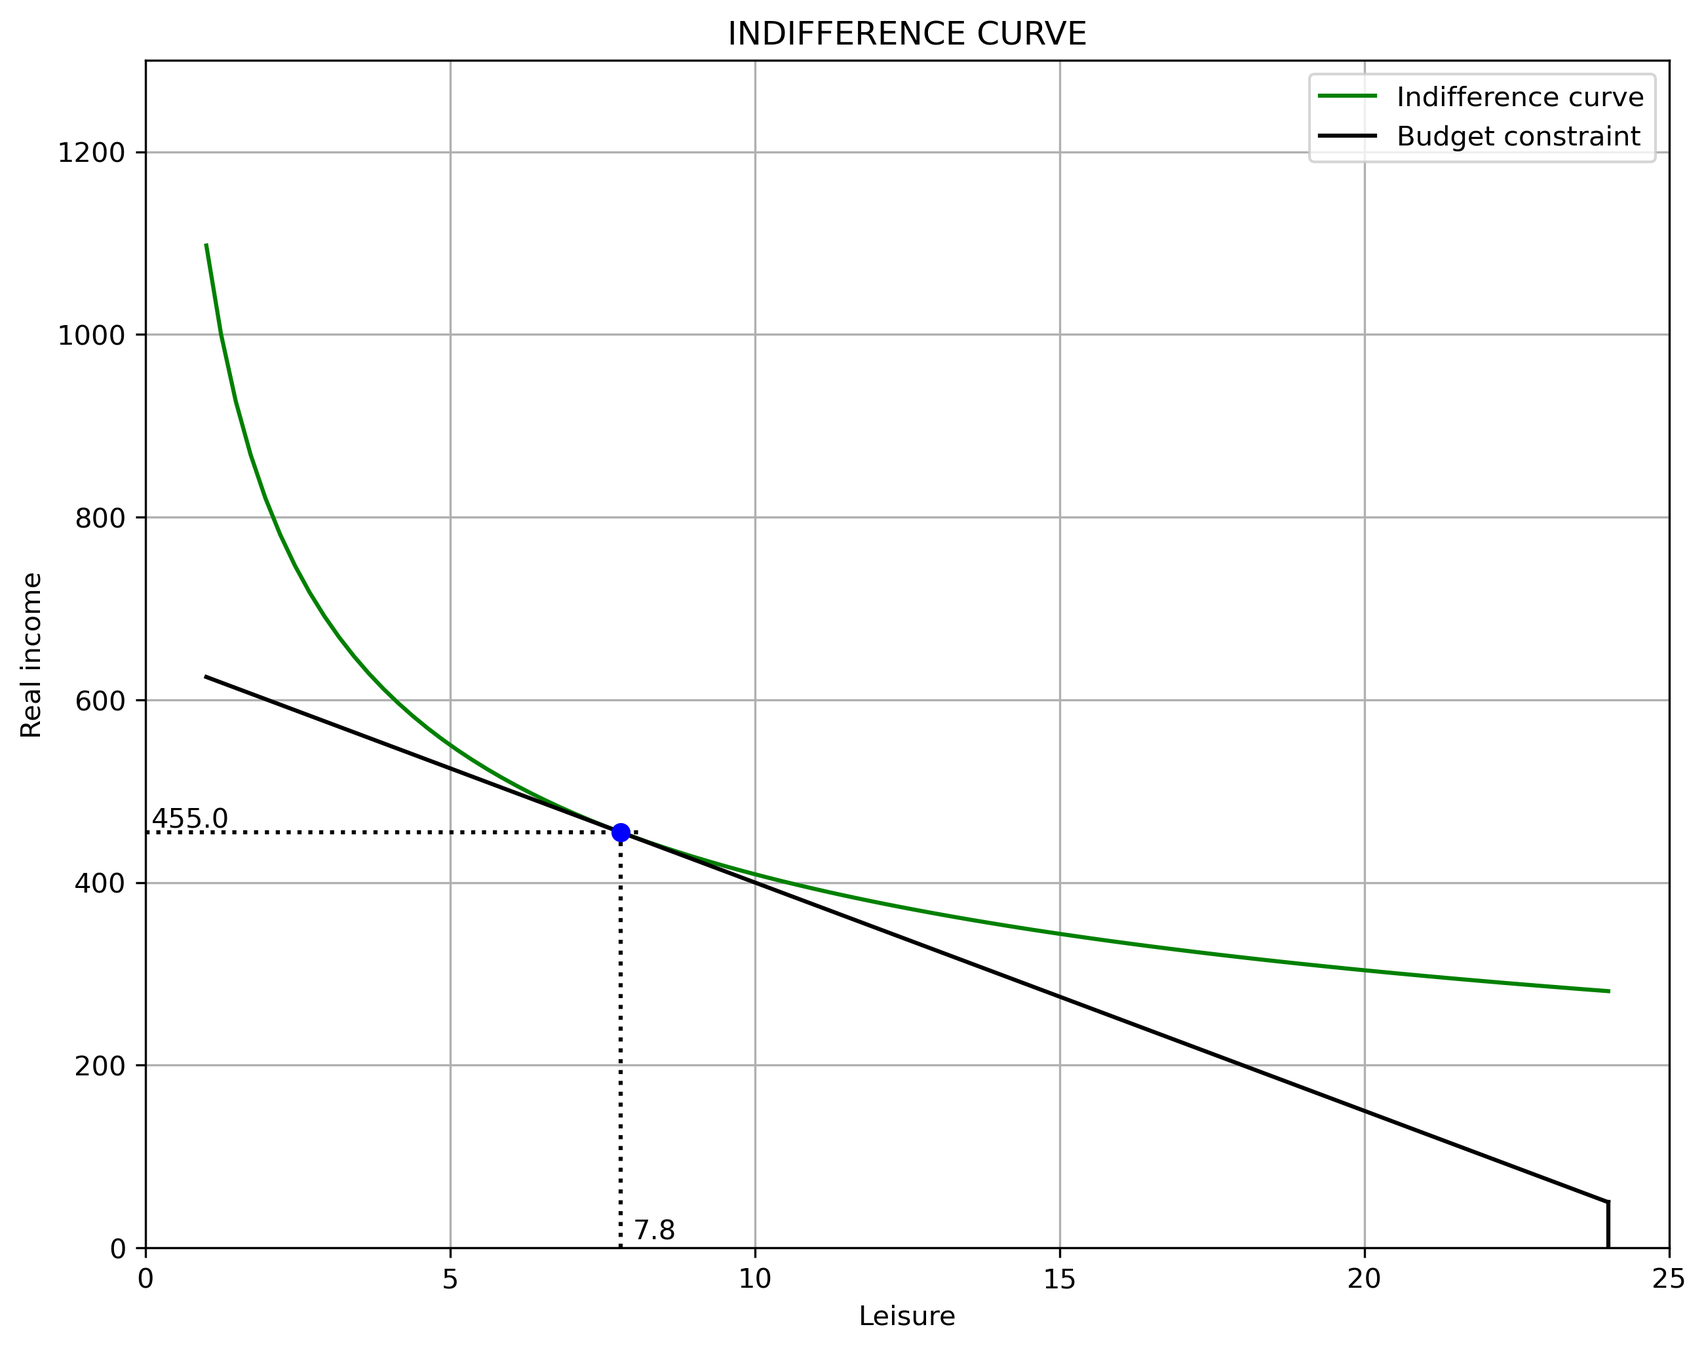
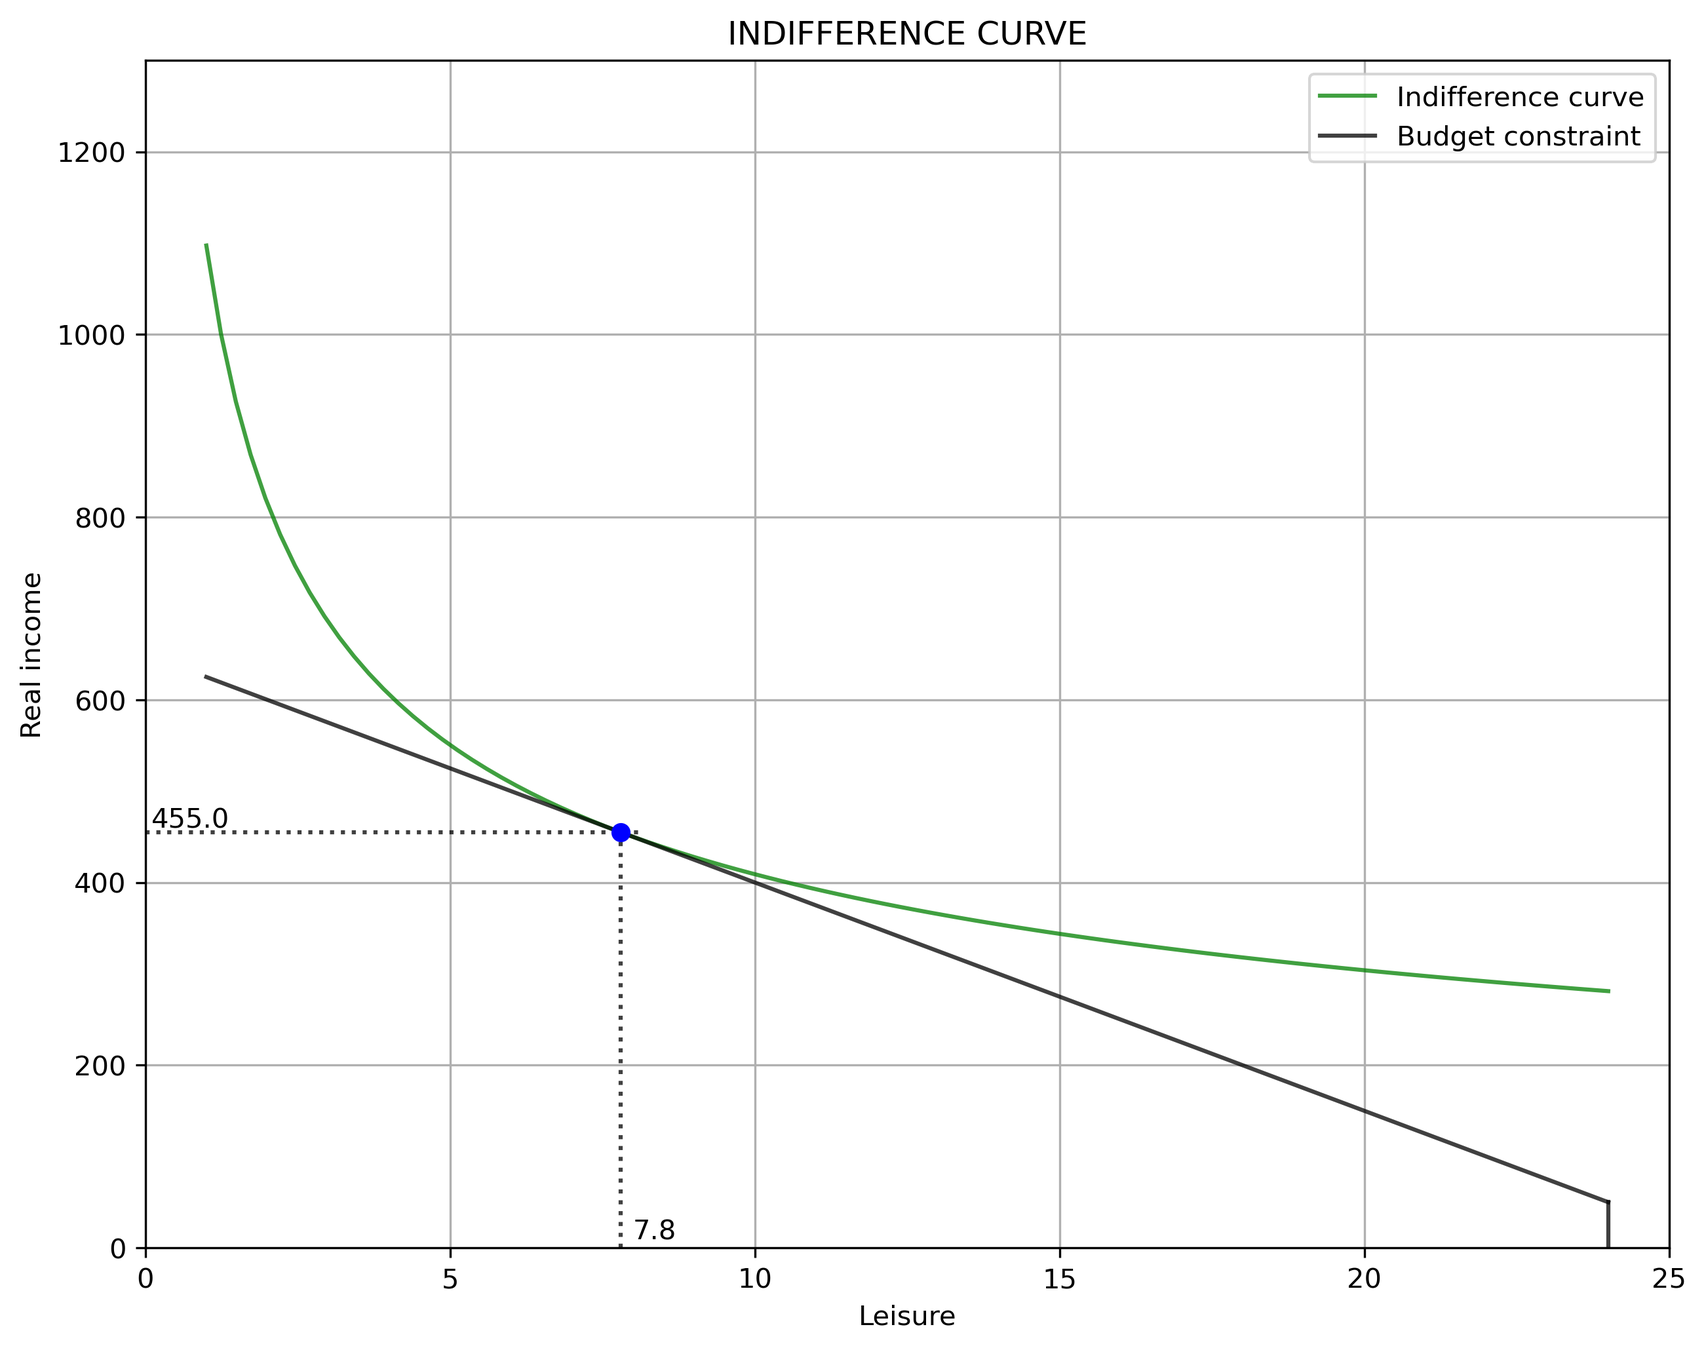
Labor

diff --git a/content/python/01_The-labor-market/_index.md b/content/python/01_The-labor-market/_index.md
@@ -21,46 +21,56 @@ Under revision
 
 ## Labor demand
 
-Labor demand $\left(N^D\right)$ comes from a representative firm maximizing its profits $(\pi)$. Assume output $(Q)$ follows a Cobb-Douglas production function with Hicks-Neutral technology $(A)$, and that $P$ is the market price of the firm's output. Further, assume that $w$ and $r$ are the prices of labor $(N)$ and capital $(K)$ respectively. Then, firm's profit is (where $\alpha \in (0, 1)$):
+Labor demand $\left(N^D\right)$ originates in a representative firm maximizing its profits $(\pi)$. Assume output $(Q)$ follows a Cobb-Douglas production function with Hicks-Neutral technology $(A)$, and that $P$ is the market price of the firm's output. Further, assume that $w$ and $r$ are the prices of labor $(N)$ and capital $(K)$ respectively. Then, firm's profit is (where $\alpha \in (0, 1)$):
 
 $$
 \begin{align}
     \pi &= P \cdot Q(K, N) - wN - rK  \\\\[10pt]
-    \pi &= P \cdot \left(A \cdot K^{\alpha} N^{1-\alpha} \right) - wN - rK
+    \pi &= P \cdot \left(A K^{\alpha} N^{1-\alpha} \right) - wN - rK
 \end{align}
 $$
 
-With capital and technology as given in the short-run, the firm maximizes its profits by changin the amount of labor. The firm demands labor (that has decreasing marginal returns) up the points of its marginal productivity. It can be seen that labor demand has an hyperbolic shape with respect to real wages $(w/P)$.
+With capital and technology fixed in the short-run, the firm maximizes its profits by changing the amount of labor. The firm demands labor (that has decreasing marginal returns) up the points of its marginal productivity. It can be seen that labor demand has an hyperbolic shape with respect to real wages $(w/P)$.
 
 $$
 \begin{align}
-    \frac{\partial \pi}{\partial N} &= P \cdot (1-\alpha) \, A \left(\frac{K}{N}\right)^{\alpha} - w= 0 \\\\[10pt]
+    \frac{\partial \pi}{\partial N} &= P \cdot (1-\alpha) A \left(\frac{K}{N}\right)^{\alpha} - w= 0 \\\\[10pt]
     N^D &= K \cdot \left[\frac{(1-\alpha)A}{(w/P)}\right]^{1/\alpha}
 \end{align}
 $$
 
-The following code plots labor demand and shifts produced by changes in $k$ (in blue), $A$ (in red), and in $\alpha$ (in green). The first part of the code imports the required packages. The second part defines the parameters and vectors to be used. The third part of the code builds the labor demand function. The fourth section calculates labor demand and the effects of shocks (1) capital $(\Delta K = 20)$, (2) productivity $(\Delta A = 20)$, and (3) output elasticity of capital $(\Delta \alpha = 20)$. The fifth part of the code plots labor demand and the shock effects.
+The following code plots labor demand and shifts produced by changes in $K$ (in <span style="color:blue">blue</span>), $A$ (in <span style="color:red">red</span>), and in $\alpha$ (in <span style="color:green">green</span>). The first part of the code imports the required packages. The second part defines the parameters and vectors to be used. The third part of the code builds the labor demand function. The fourth section calculates labor demand and the effects of shocks (1) to capital $(\Delta K = 20)$, (2) to productivity $(\Delta A = 20)$, and (3) to output elasticity of capital $(\Delta \alpha = 20)$. The fifth part of the code plots labor demand and the shock effects.
 
 ```python
+#%% | *** FIRST CELL ***
+"============================================================================"
 "1|IMPORT PACKAGES"
 import numpy             as np       # Package for scientific computing
 import matplotlib.pyplot as plt      # Matplotlib is a 2D plotting library
 from   scipy.optimize    import root # Package to find the roots of a function
 
+
+"============================================================================"
 "2|DEFINE PARAMETERS AND ARRAYS"
-# Parameters
+# Code parameters
+dpi=300
 size  = 50    # Real wage domain
+# Model parameters
 K     = 20    # Capital stock
 A     = 20    # Technology
 alpha =  0.7  # Output elasticity of capital
 # Arrays
 rW = np.linspace(1, size, size*2)  # Real wage
 
+
+"============================================================================"
 "3|LABOR DEMAND FUNCTION"
 def Ndemand(A, K, rW, alpha):
-    Nd = K * ((1-alpha)*A/rW)**(1/alpha)
+    Nd = K * ((1 - alpha)*A/rW)**(1/alpha)
     return Nd
 
+
+"============================================================================"
 "4|CALCULATE LABOR DEMAND AND SHOCK EFFECTS"
 D_K = 20    # Shock to K
 D_A = 20    # Shock to A
@@ -70,27 +80,28 @@ Nd   = Ndemand(A    , K    , rW, alpha)
 Nd_K = Ndemand(A    , K+D_K, rW, alpha)      
 Nd_A = Ndemand(A+D_A, K    , rW, alpha)      
 Nd_a = Ndemand(A    , K    , rW, alpha+D_a)  
-   
-"5|PLOT LABOR DEMAND AND SHOCK EFFECTS"
-xmax_v    = np.zeros(4)
-xmax_v[0] = np.max(Nd)
-xmax_v[1] = np.max(Nd_K)
-xmax_v[2] = np.max(Nd_A)
-xmax_v[3] = np.max(Nd_a)
-xmax      = np.max(xmax_v)
 
-v = [0, 30, 0, size]                            # Set the axes range
-fig, ax = plt.subplots(figsize=(10, 8), dpi=300)
+
+"============================================================================"
+"5|PLOT LABOR DEMAND AND SHOCK EFFECTS"
+# AXIS RANGE
+axis_range = [0, 30, 0, size]
+
+# BUILD PLOT
+fig, ax = plt.subplots(figsize=(10, 8), dpi=dpi)
 ax.set(title="LABOR DEMAND", xlabel=r'Nd', ylabel=r'w/P')
-ax.grid()
-ax.plot(Nd  , rW, "k-", label="Labor demand", linewidth=3)
-ax.plot(Nd_K, rW, "b-", label="Capital shock")
-ax.plot(Nd_A, rW, "r-", label="Productivity shock")
-ax.plot(Nd_a, rW, "g-", label="Output elasticity of K shock")
+# ADD DEMAND CURVES
+ax.plot(Nd  , rW, "k-", alpha=0.75, label="Labor demand", linewidth=3)
+ax.plot(Nd_K, rW, "b-", alpha=0.75, label="Capital shock")
+ax.plot(Nd_A, rW, "r-", alpha=0.75, label="Productivity shock")
+ax.plot(Nd_a, rW, "g-", alpha=0.75, label="Output elasticity of K shock")
+# AXIS
 ax.yaxis.set_major_locator(plt.NullLocator())   # Hide ticks
 ax.xaxis.set_major_locator(plt.NullLocator())   # Hide ticks
+#SETTINGS
+ax.grid()
 ax.legend() 
-plt.axis(v)                                     # Use 'v' as the axes range
+plt.axis(axis_range)
 plt.show()
 ```
 
@@ -100,7 +111,7 @@ plt.show()
 
 ## Labor supply
 
-Labor supply is derived from the consumer maximizing a constrained utility function. The consumer receives utility from consumption $(C)$ and leisure time $(L)$. While the profit function of the firm has an internal maximum, the utility function is strictly increasing on $C$ and $L$. Therefore, the utility maximization problem includes (1) a binding constrain and (2) the right mix of $C$ and $L$ that will depend on their relative prices.
+Labor supply is derived from the consumer maximizing a constrained utility function. The consumer receives utility from consumption $(C)$ and leisure time $(L)$. While the profit function of the firm has an internal maximum, the utility function is strictly increasing on $C$ and $L$. Put it differently, there is a point after which increasing output does not increase profits. But, utility always increases (even if by a very small amount) with more consumption. Therefore, the utility maximization problem includes (1) a binding constrain and (2) the right mix of $C$ and $L$ that will depend on their relative prices.
 
 Assume a Cobb-Douglas utility function where $\beta$ is the consumption elasticity of utility.
 
@@ -114,18 +125,18 @@ The consumer faces the following budget constraint:
 
 $$
 \begin{align}
-    C &= \left(\frac{w}{P} \right) (24 - L) + I  \\\\[10pt]
-    C &= \underbrace{\left[I + 24 \left(\frac{w}{P} \right) \right]}\_{\text{intercept}} - \underbrace{\left( \frac{w}{P} \right)}\_{\text{slope}}L
+    C &= \left(\frac{w}{P} \right) (T - L) + I  \\\\[10pt]
+    C &= \underbrace{\left[I + T \left(\frac{w}{P} \right) \right]}\_{\text{intercept}} - \underbrace{\left( \frac{w}{P} \right)}\_{\text{slope}}L
 \end{align}
 $$
 
-where $24$ is the amount of hours the individual can work in given day and $I$ is other (non-labor) income. 
+where $T$ is the amount of hours the individual can work in given day and $I$ is other (non-labor) income.
 
 Before deriving labor supply $N^S$ we can plot the indifference curve between consumption and leisure with the budget constraint. "Solving" for $C$ for a given level of utility:
 
 $$
 \begin{equation}
-    C = \left( \frac{\bar{U}}{L^{1-\beta}} \right)^{(1/\beta)}
+    C = \left(\frac{\bar{U}}{L^{1 - \beta}} \right)^{(1/\beta)}
 \end{equation}
 $$
 
@@ -133,7 +144,7 @@ We can now maximize the utility with the budget constraint using a Lagrangian $\
 
 $$
 \begin{equation}
-    \max_{\{C, L\}} \Im = C^{\beta} L^{1-\beta} + \lambda \left[C - I - \frac{w}{P} (24-L) \right]
+    \max_{\{C, L\}} \Im = C^{\beta} L^{1 - \beta} + \lambda \left[C - I - \frac{w}{P} (T - L) \right]
 \end{equation}
 $$
 
@@ -143,23 +154,21 @@ $$
 \begin{cases}
     \Im_{L} = (1 - \beta) \left( \frac{C}{L} \right)^{\beta} - \lambda = 0  \\\\[10pt]
     \Im_{C} = \beta \left( \frac{L}{C} \right)^{1-\beta} - \lambda \left(\frac{w}{P} \right) = 0  \\\\[10pt]
-    \Im_{\lambda} = C - I - \left(\frac{w}{P}\right) (24-L) = 0
+    \Im_{\lambda} = C - I - \left(\frac{w}{P}\right) (T - L) = 0
 \end{cases}
 $$
 
 From the first two FOCs we get the known relationship $\frac{U_{L}}{U_{C}} = \frac{w/P}{1}$
 
 Solving for $C$ in terms of $L$ yields $C = \frac{\beta}{1-\beta} \left(\frac{w}{P}\right)L$.
-Plugin this result in the third FOC and solving for $L$ yields $L^\* = (1-\beta) \left[\frac{I + 24 (w/P)}{(w/P)} \right]$. With $L^*$ we can now get $C^\* = \beta \left[I + 24 (w/P) \right]$. Next we plug-in $C^\*$ and $L^\*$ into the utility function.
+Plugin this result in the third FOC and solving for $L$ yields $L^\* = (1-\beta) \left[\frac{I + T (w/P)}{(w/P)} \right]$. With $L^*$ we can now get $C^\* = \beta \left[I + T (w/P) \right]$. Next we plug-in $C^\*$ and $L^\*$ into the utility function.
 
 $$
 \begin{align}
     U(C^\*, L^\*)^* &= \left(C^\* \right)^{\beta} \left(L^\* \right)^{1-\beta}  \\\\[10pt]
-    U(C^\*, L^\*)^* &= \left[\beta(I + 24 (w/P)\right]^{\beta} \left[(1-\beta) \frac{I+24(w/P)}{(w/P)} \right]^{1-\beta}
+    U(C^\*, L^\*)^* &= \left[\beta(I + T (w/P)\right]^{\beta} \left[(1 - \beta) \frac{I + T(w/P)}{(w/P)} \right]^{1-\beta}
 \end{align}
 $$
-
-Note that if $I=0$ then $L^\*$ and $C^\*$ are fixed quantities that depend on the value of $\beta$.
 
 Using the lagrangian method also allows to find the "optimal" value of $\lambda$ or the "shadow price":
 
@@ -171,11 +180,13 @@ $$
 \end{align}
 $$
 
-Now we can use this information to plot the indifference curve with `matplotlib`. Note that the code calculates $U^\*$, $L^\*$, and $C^\*$ and uses these values in the graph. The first part of the code imports the required packages. The second part of the code defines needed parameters and vectors. The third part of the code calculates $U^\*$, $L^\*$, $C^\*$, and builds the functions for the indifference curve and the budget constraint. The fourth part of the code builds the plot.
+Now we can use this information to plot the indifference curve with `matplotlib`. Note that at $T=24$ (zero hours of labor), income equals $I$ (non-labor income). This shows as a vertical line that connects with the budget constraint, which starts to grow as hours of labor are added.(moving to the left).
 
 ```python
+#%% *** SECOND CELL ***
+"============================================================================"
 "6|DEFINE PARAMETERS AND ARRAYS"
-# Parameters
+# Model parameters
 T    = 24    # Available hours to work
 beta =  0.7  # Utility elasticity of consumption
 I    = 50    # Non-labor income
@@ -183,39 +194,52 @@ rW2  = 25    # Real wage
 # Arrays
 L = np.linspace(1, T, T*4)  # Array of labor hours from 0 to T
 
+
+"============================================================================"
 "7|CALCULATE OPTIMAL VALUES AND DEFINE FUNCTIONS"
 Ustar = (beta*(I + T*rW2))**beta * ((1 - beta)*(I + T*rW2)/rW2)**(1 - beta)
 Lstar = (1 - beta)*((I + T*rW2)/rW2)
 Cstar = beta*(I + T*rW2)
 
-def C_indiff(U, L, beta):        # Create consumption function
+# Consumption function
+def C_indiff(U, L, beta):
     C_indiff = (U/L**(1 - beta))**(1/beta)
     return C_indiff
 
-def Budget(I, rW2, L):            # Create budget constraint
+# Budget constraint
+def Budget(I, rW2, L):
     Budget = (I + T*rW2) - rW2*L
     return Budget
 
-B = Budget(I, rW2, L)             # Budget constraint
-C = C_indiff(Ustar, L, beta)     # Indifference curve
+# Populate the indifference curve and the budget constraint
+B = Budget(I, rW2, L)
+C = C_indiff(Ustar, L, beta)
 
+
+"============================================================================"
 "8|PLOT THE INDIFFERENCE CURVE AND THE BUDDGET CONSTRAINT"
 y_max = 2*Budget(I, rW2, 0)
 
-v = [0, T+1, 0, y_max]                               # Set the axes range
-fig, ax = plt.subplots(figsize=(10, 8), dpi=300)
+# AXIS RANGE
+axis_range = [0, T+1, 0, y_max]
+
+# BUILD PLOT
+fig, ax = plt.subplots(figsize=(10, 8), dpi=dpi)
 ax.set(title="INDIFFERENCE CURVE", xlabel="Leisure", ylabel="Real income")
-ax.grid()
-ax.plot(L, C, "g-", label="Indifference curve")
-ax.plot(L, B, "k-", label="Budget constraint")
-plt.axvline(x=T    , ymin=0, ymax=I/y_max, color='k') # Add non-labor income
-plt.axvline(x=Lstar, ymin=0, ymax = Cstar/y_max, ls=':', color='k') # Lstar
-plt.axhline(y=Cstar, xmin=0, xmax = Lstar/T    , ls=':', color='k') # Cstar
-plt.plot(Lstar, Cstar, 'bo')                                        # Point
+# ADD LINES TO THE PLOT
+ax.plot(L, C, "g-", alpha=0.75, label="Indifference curve")
+ax.plot(L, B, "k-", alpha=0.75, label="Budget constraint")
+plt.axvline(x=T    , ymin=0, alpha=0.75, ymax=I/y_max, color='k') # Add I
+plt.axvline(x=Lstar, ymin=0, alpha=0.75, ymax = Cstar/y_max, ls=':', color='k') 
+plt.axhline(y=Cstar, xmin=0, alpha=0.75, xmax = Lstar/T    , ls=':', color='k') 
+plt.plot(Lstar, Cstar, 'bo')
+# LABELS
 plt.text(0.1      ,  Cstar+5, np.round(Cstar, 1), color="k")
 plt.text(Lstar+0.2,  10     , np.round(Lstar, 1), color="k")
+# SETTINGS
+ax.grid()
 ax.legend() 
-plt.axis(v)                                         # Use 'v' as the axes range
+plt.axis(axis_range)
 plt.show()
 ```
 
@@ -225,14 +249,18 @@ Labor supply $N^S$ is the number of hours **not spent** in leisure. Note that $N
 
 $$
 \begin{align}
-    N^S &= 24 - L^*  \\\\[10pt]
-    N^S &= 24 - (1-\beta) \left[\frac{I + 24 (w/P)}{(w/P)} \right]
+    N^S &= T - L^*  \\\\[10pt]
+    N^S &= T - (1-\beta) \left[\frac{I + T (w/P)}{(w/P)} \right]
 \end{align}
 $$
 
-The following code shows labor supply (in black) and shocks to non-labor income $\Delta I = 25$ (in blue) and to consumption elasticity of utility $\Delta \beta = 0.10$ (in red). Note that in this construction $N^S$ does not bend-backwards.
+> If $I=0$, then labor supply simplifies to: $N^S = \beta T$.
+
+The following code shows labor supply (in black) and shocks to non-labor income $\Delta I = 25$ (in <span style="color:blue">blue</span>) and to consumption elasticity of utility $\Delta \beta = 0.10$ (in <span style="color:red">red</span>). Note that in this construction $N^S$ does not bend-backwards as is typically shows in economic textbooks.
 
 ```python
+#%% *** THIRD CELL ***
+"============================================================================"
 "9|LABOR SUPPLY"
 def Nsupply(rW, beta, I):
     Lsupply = T - (1-beta)*((T*rW + I)/rW)
@@ -244,21 +272,27 @@ D_b = 0.10   # Shock to beta
 Ns   = Nsupply(rW, beta    , I)
 Ns_b = Nsupply(rW, beta+D_b, I)
 Ns_I = Nsupply(rW, beta    , I+D_I)
-    
-"10|PLOT LABOR SUPPLY"
-y_max = np.max(Ns)
-v = [0, T, 0, y_max]                               # Set the axes range
 
-fig, ax = plt.subplots(figsize=(10, 8), dpi=300)
+
+"============================================================================"    
+"10|PLOT LABOR SUPPLY"
+# AXIS RANGE
+y_max = np.max(Ns)
+axis_range = [0, T, 0, y_max]
+
+# BUILD PLOT
+fig, ax = plt.subplots(figsize=(10, 8), dpi=dpi)
 ax.set(title="LABOR SUPPLY", xlabel="Work Hs.", ylabel=r'(w/P)')
-ax.grid()
-ax.plot(Ns  , rW, "k", label="Labor supply", linewidth=3)
-ax.plot(Ns_I, rW, "b", label="Non-labor income shock")
-ax.plot(Ns_b, rW, "r", label="Consumption elasticy of utility shock")
+# ADD LABOR SUPPLY LINES
+ax.plot(Ns  , rW, "k", alpha=0.75, label="Labor supply", linewidth=3)
+ax.plot(Ns_I, rW, "b", alpha=0.75, label="Non-labor income shock")
+ax.plot(Ns_b, rW, "r", alpha=0.75, label="Consumption elasticy of utility shock")
 ax.yaxis.set_major_locator(plt.NullLocator())      # Hide ticks
 ax.xaxis.set_major_locator(plt.NullLocator())      # Hide ticks
+# SETTINGS
+ax.grid()
 ax.legend() 
-plt.axis(v)                                        # Use 'v' as the axes range
+plt.axis(axis_range)
 plt.show()
 ```
 
@@ -268,45 +302,52 @@ plt.show()
 
 ## Equilibrium
 
-We can now calculate the equilibrium condition, the value of $(w/P)_0$ which makes $N^D\left(\left(\frac{w}{P}\right)_0\right) = N^S\left(\left(\frac{w}{P}\right)_0\right)$. Then, we can define a function $\Theta$ equal to zero at $\left(\frac{w}{P}\right)_0$:
+We can now calculate the equilibrium condition: the value of $(w/P)_0$ which makes $N^D\left(\left(\frac{w}{P}\right)_0\right) = N^S\left(\left(\frac{w}{P}\right)_0\right)$. We can define a new function $\Theta$ equal to zero at $\left(\frac{w}{P}\right)_0$:
 
 $$
 \begin{align}
-    \Theta \left[ \left(\frac{w}{P}\right)_0 \right] &= 0 = N^D \left[\left(\frac{w}{P} \right)_0 \right] - N^S \left[\left(\frac{w}{P}\right)_0 \right] \\\\[10pt]
-    \Theta \left[ \left(\frac{w}{P}\right)_0 \right] &= 0 = \left[ K \cdot \left[\frac{(1-\alpha)A}{(w/P)}\right]^{1/\alpha} \right] - \left[ 24  (1-\beta) \left[\frac{I + 24 (w/P)}{(w/P)} \right] \right]
+    \Theta \left[\left(\frac{w}{P}\right)_0 \right] &= 0 = N^D \left[\left(\frac{w}{P} \right)_0 \right] - N^S \left[\left(\frac{w}{P}\right)_0 \right] \\\\[10pt]
+    \Theta \left[\left(\frac{w}{P}\right)_0 \right] &= 0 = \left[K \cdot \left[\frac{(1-\alpha)A}{(w/P)}\right]^{1/\alpha} \right] - \left[T(1-\beta) \left[\frac{I + T(w/P)}{(w/P)} \right] \right]
 \end{align}
 $$
 
-We can ask Python to calculate the value (root) of $\left( \frac{w}{P} \right)$ that makes $\Theta = 0$. For this we need the "root" function from the `SciPy` library. The cade has four sections. Section 1 imports the required packages. Section 2 defines the parameters and arrays. Section 3 find the equilibrium values. And section 4 plots the results.
+`Python` to calculate the value (root) of $\left( \frac{w}{P} \right)$ that makes $\Theta = 0$. For this we need the "root" function from the `SciPy` library.
 
 ```python
+#%% *** CELL 4 ***
+"============================================================================"
+"11|OPTIMIZATION PROBLEM: FIND EQUILIBRIUM VALUES"
 def Eq_Wage(rW):
     Eq_Wage = Ndemand(A, K, rW, alpha) - Nsupply(rW, beta, I)
     return Eq_Wage
 
-rW_0 = 10                            # Initial value (guess)
-rW_star = root(Eq_Wage, rW_0)        # Equilibrium: Wage
-N_star = Nsupply(rW_star.x, beta, I) # Equilibrium: Labor
+rW_0 = 10                             # Initial value (guess)
+rW_star = root(Eq_Wage, rW_0)         # Equilibrium: Wage
+N_star  = Nsupply(rW_star.x, beta, I) # Equilibrium: Labor
 
+
+"============================================================================"
 "12|PLOT LABOR MARKET EQUILIBRIUM"
-Nd = Ndemand(A, K, rW, alpha)
-Ns = Nsupply(rW, beta, I)
-
+#AXIS RANGE
 y_max = rW_star.x*2
-v = [0, T, 0, 12] # Set the axes range
+axis_range = [0, T, 0, 12] # Set the axes range
 
-fig, ax = plt.subplots(figsize=(10, 8))
+# BUILD PLOT
+fig, ax = plt.subplots(figsize=(10, 8), dpi=dpi)
 ax.set(title="LABOR SUPPLY", xlabel="Work Hs.", ylabel=r'(w/P)')
+# ADD LABOR DEMAND AND SUPPLY
 ax.plot(Ns[1:T], rW[1:T], "k", label="Labor supply")
 ax.plot(Nd[1:T], rW[1:T], "k", label="Labor demand")
 plt.plot(N_star, rW_star.x, 'bo') 
 plt.axvline(x=N_star   , ymin=0, ymax=rW_star.x/12, ls=':', color='k')
 plt.axhline(y=rW_star.x, xmin=0, xmax=N_star/T    , ls=':', color='k')
-plt.text( 4.5, 11           , "Labor demand")
-plt.text(20  ,  5           , "Labor supply")
-plt.text(0.2 , rW_star.x+0.5, np.round(rW_star.x, 1))
-plt.text(N_star+0.3, 0.3    , np.round(N_star, 1))
-plt.axis(v) 
+# ADD LABELS
+plt.text( 4.5, 11, "Labor demand")
+plt.text(20  ,  5, "Labor supply")
+plt.text(0.2       , rW_star.x+0.5, np.round(rW_star.x, 1))
+plt.text(N_star+0.3, 0.3          , np.round(N_star, 1))
+# SETTINGS
+plt.axis(axis_range) 
 plt.show()
 ```
 
